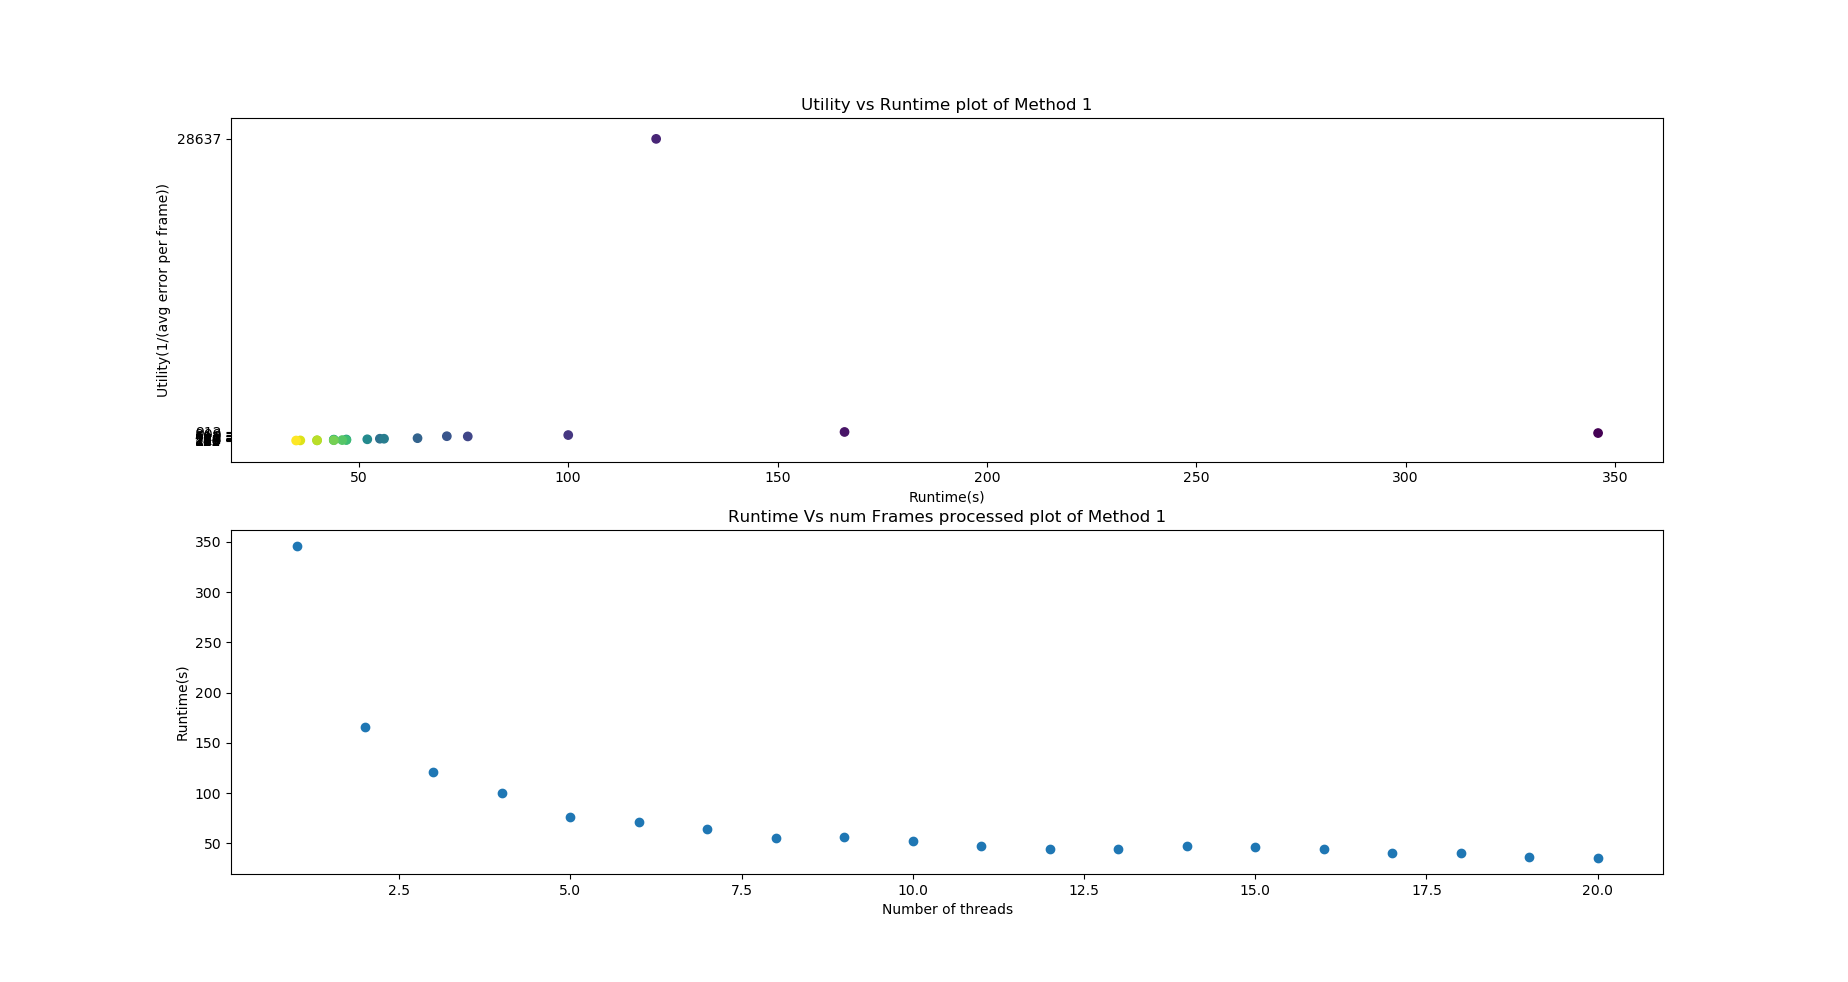
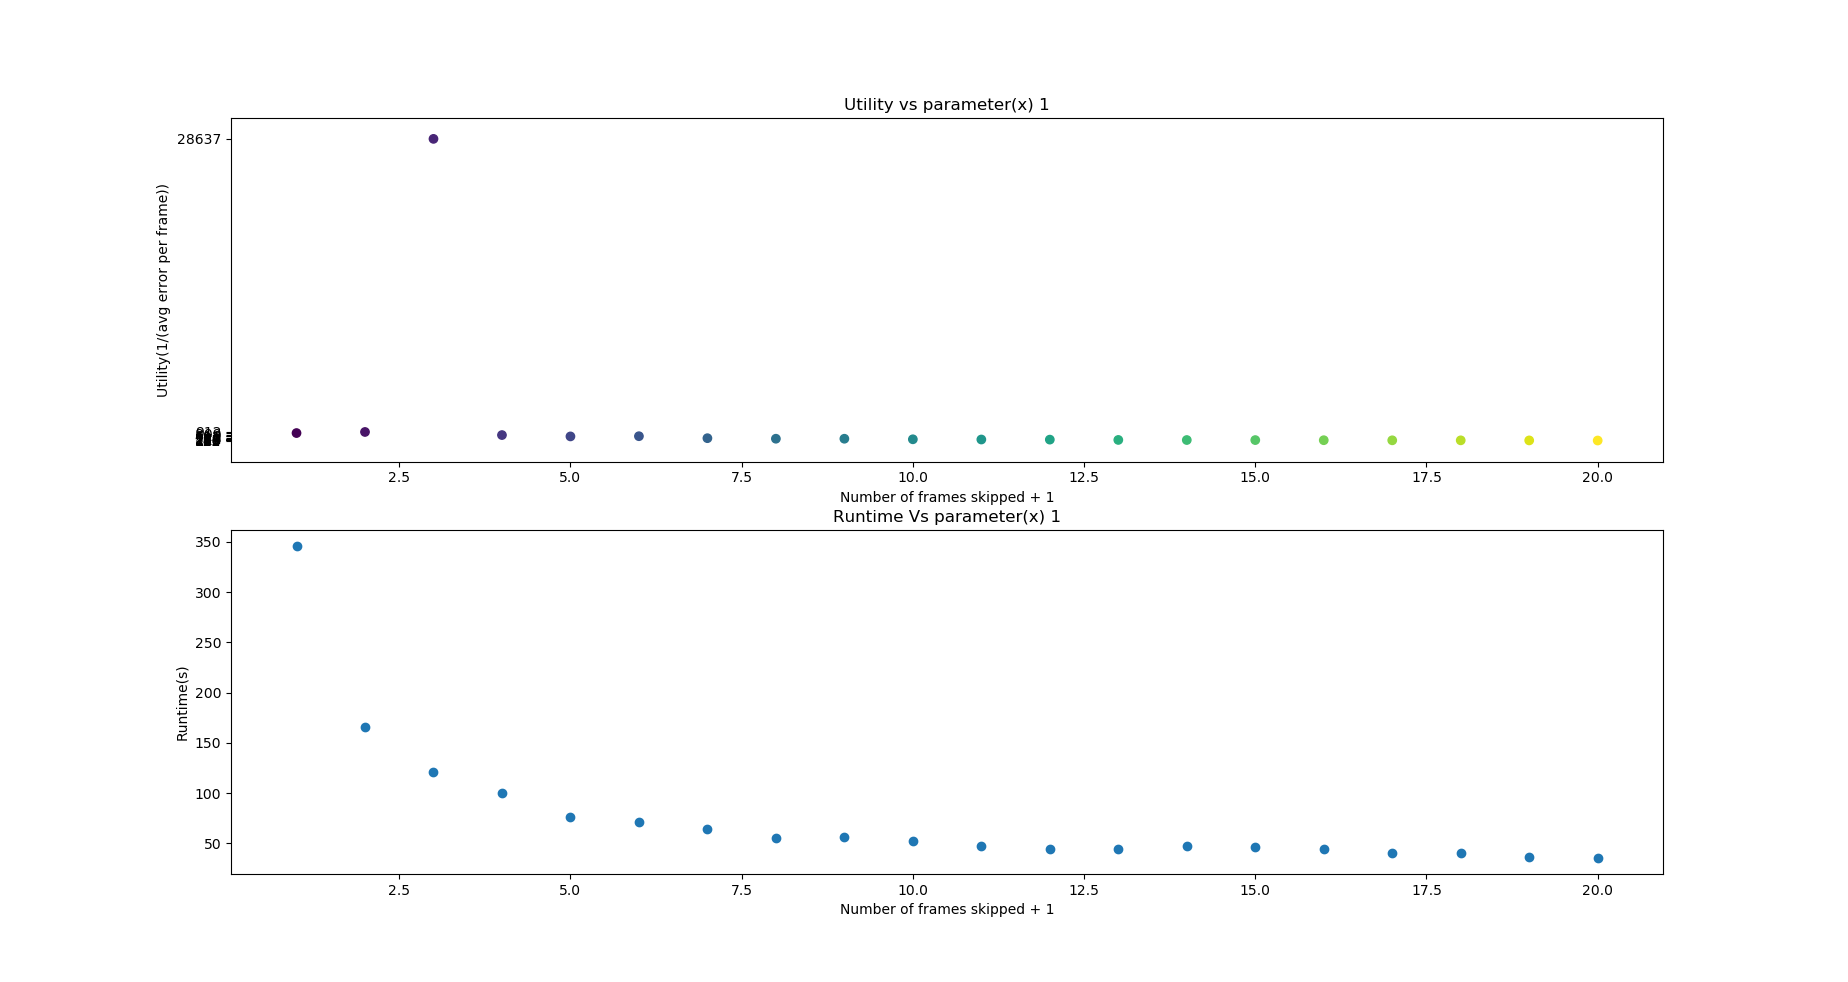
m1 folder

diff --git a/m1_analysis/graph_m1.py b/m1_analysis/graph_m1.py
@@ -1,0 +1,27 @@
+import matplotlib.pyplot as plt
+m=int(input("Enter method number: "))
+x = []
+y = []
+p1=[]
+p=[]
+for line in open("utility_m"+str(m)+".txt", 'r'):
+    lines = [i for i in line.split(",")]
+    p.append(int(lines[0]))
+    p1.append(int(lines[0])*100/16)
+    x.append(float(lines[1]))
+    y.append(float(lines[2]))
+plt.subplot(2,1,1)
+plt.title("Utility vs parameter(x) "+str(m))
+plt.xlabel('Number of frames skipped + 1')
+plt.ylabel('Utility(1/(avg error per frame))')
+plt.yticks(y)
+plt.scatter(p, y, marker = 'o', c = p1,cmap='viridis')
+#plt.colorbar()
+plt.subplot(2,1,2)
+plt.title("Runtime Vs parameter(x) "+str(m))
+plt.xlabel('Number of frames skipped + 1')
+plt.ylabel('Runtime(s)')
+plt.scatter(p,x)
+print("Press Ctrl+S to save figure")  
+plt.show()
+
